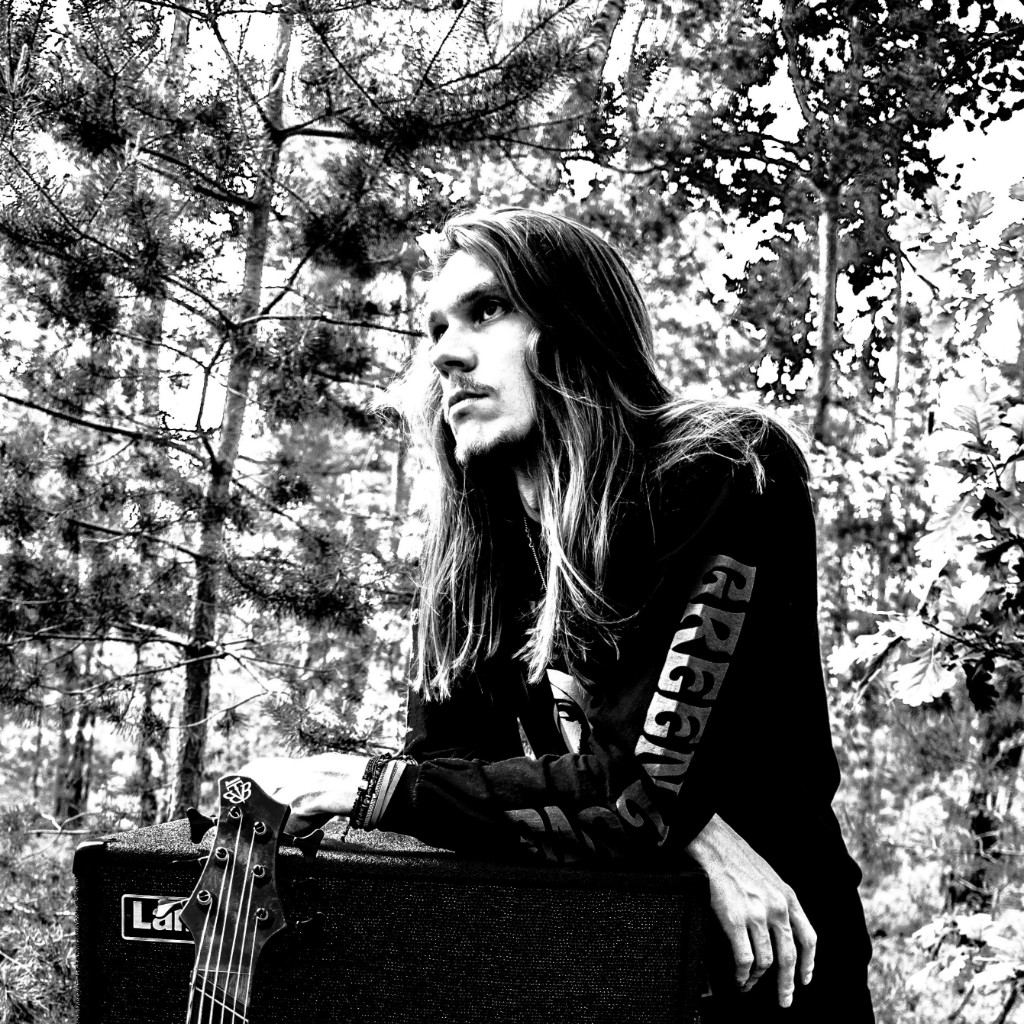
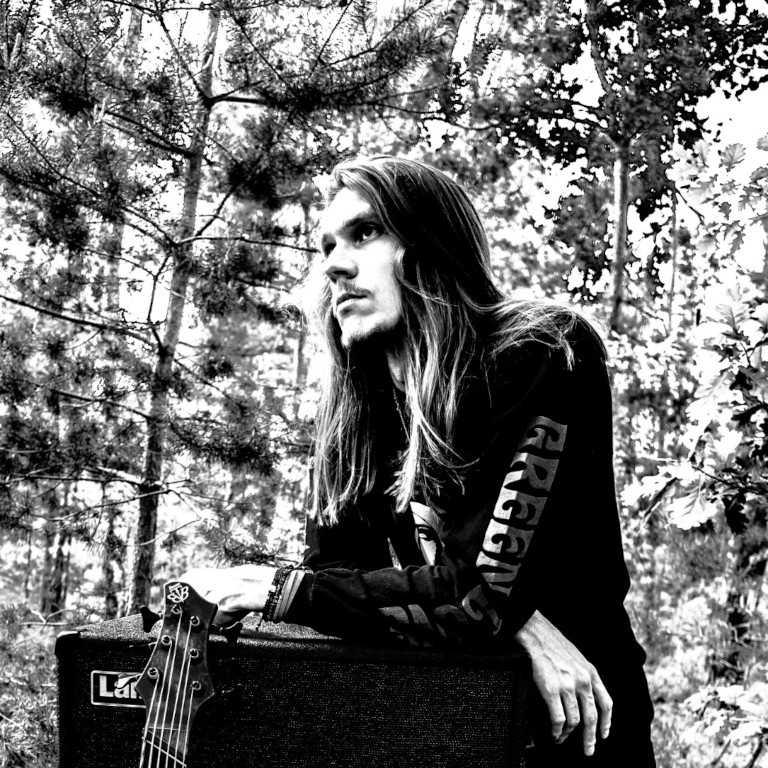
resize imgs and add google search verification

diff --git a/css/css.css b/css/css.css
@@ -26,8 +26,10 @@ h1, h2, h3 {
     background-repeat: no-repeat;
     background-position:top;
     background-position-x: right;
-    background-size: 20%;
+    background-size: 10%;
     background-position-y: -20px;
+    padding-top: 1rem;
+    padding-bottom: 1rem;
 }
 
 .banner-wrapper .banner-logo img {
@@ -342,7 +344,7 @@ section#featured {
     background-size: 315%;
     background-position-y: center;
     background-position-x: center;
-    font-size: 1.4rem;
+    font-size: 1.7rem;
 }
 
 section#band-2{
@@ -394,8 +396,8 @@ section#featured article#r {
 }
 
 section#featured article img {
-        min-width: 85%;
-        min-height: 85%;
+        min-width: 90%;
+        min-height: 90%;
         box-shadow: 10px 0px 50px rgba(0, 0, 0, 0.8), -10px 0px 50px rgba(0, 0, 0, 0.8);
     }
 
@@ -446,7 +448,7 @@ div#fire{
 }
 
 section#featured a img {
-    width: 70%;
+    width: 90%;
     height: auto;
 }
 
@@ -520,7 +522,7 @@ section#featured-2 a:hover{
 
     .banner-wrapper .banner-logo img {
         justify-content: center;
-        max-width: 50%;
+        max-width: 65%;
     }
 
     header .info-wrapper div:first-child {
@@ -590,7 +592,7 @@ section#featured-2 a:hover{
     }
 
     section#featured a img {
-        width: 85%;
+        width: 110%;
         height: auto;
     }
 

diff --git a/index.html b/index.html
@@ -6,10 +6,12 @@
     <meta name="viewport" content="width=device-width, initial-scale=1.0">
     <meta name="description" content="Thrash metal band from Poland. Blending speed, anger and melodies into a nuclear mix.">
     <meta property="og:title" content="Nuclear Venom - thrash metal band from Poland" />
-    <meta property="og:description" content="Best new thrash metal band."/>
-    <meta property="og:image" content="https://musqqq.github.io/assets/img/logo.png">
-    <link rel="apple-touch-icon" href="https://musqqq.github.io/assets/img/logo.png">
-    <meta name="twitter:image" content="https://musqqq.github.io/assets/img/logo.png">
+    <meta property="og:description" content="Chaotic and toxic music."/>
+    <meta property="og:image" content="./assets/img/logo.png">
+    <meta name="google-site-verification" content="8LefnL6OK2CMliRez_17VJyBXeWQuFmVo3Y-8GLozd8" />
+    <link rel="apple-touch-icon" href="./assets/img/logo.png">
+    <link rel="icon" type="image/x-icon" href="./assets/img/favicon.ico">
+    <meta name="twitter:image" content="./assets/img/logo.png">
     <title>Nuclear Venom - thrash metal band</title>
     <link rel="stylesheet" href="./css/css.css">
 </head>
